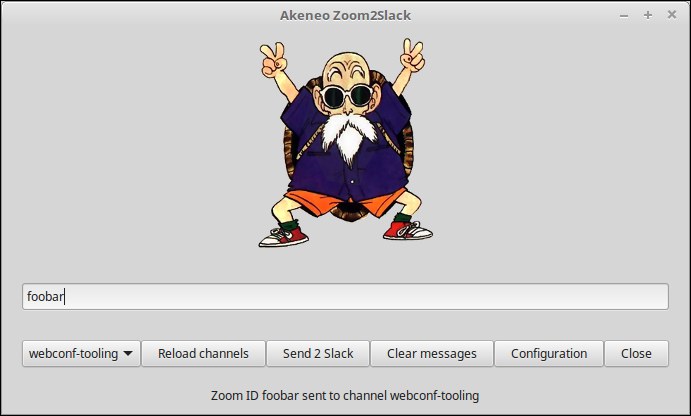
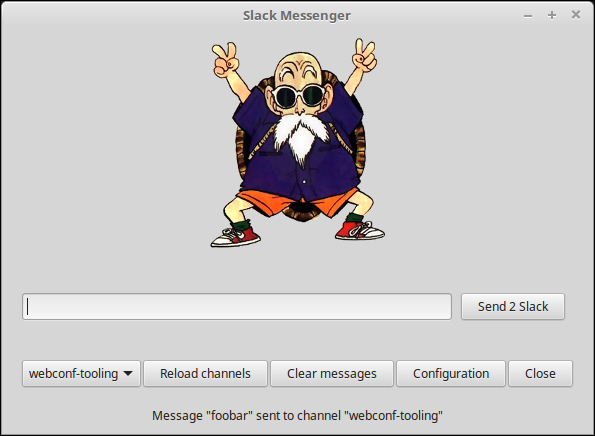
rename project

diff --git a/main.py b/main.py
@@ -27,7 +27,7 @@ class MyApplication(Gtk.Application):
 
 
 def main():
-    application = MyApplication("jmleroux.zoom2slack", Gio.ApplicationFlags.FLAGS_NONE)
+    application = MyApplication("jmleroux.slack-messenger", Gio.ApplicationFlags.FLAGS_NONE)
     application.run()
 
 

diff --git a/README.md b/README.md
@@ -23,8 +23,8 @@ sudo -H pip3 install slackclient
 Then get the project and enter it:
 
 ```
-git clone https://github.com/jmleroux/akeneo-video-conf-bot.git
-cd akeneo-video-conf-bot
+git clone https://github.com/jmleroux/slack-messenger.git
+cd slack-messenger
 ```
 
 # Usage
